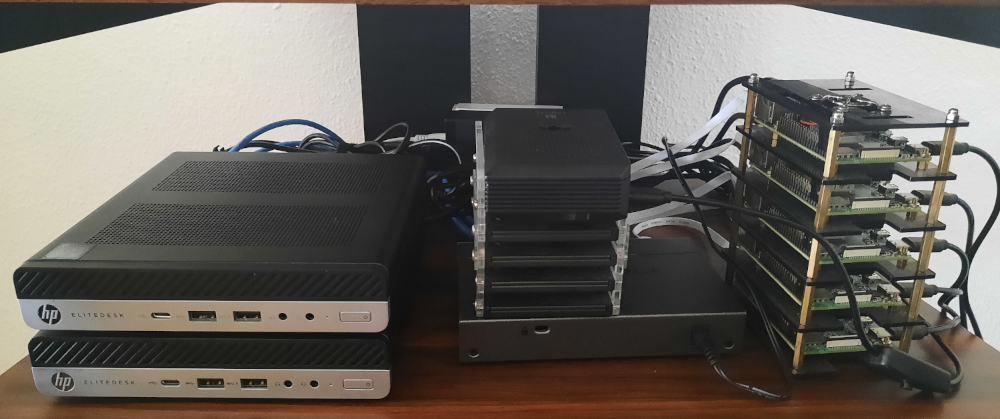
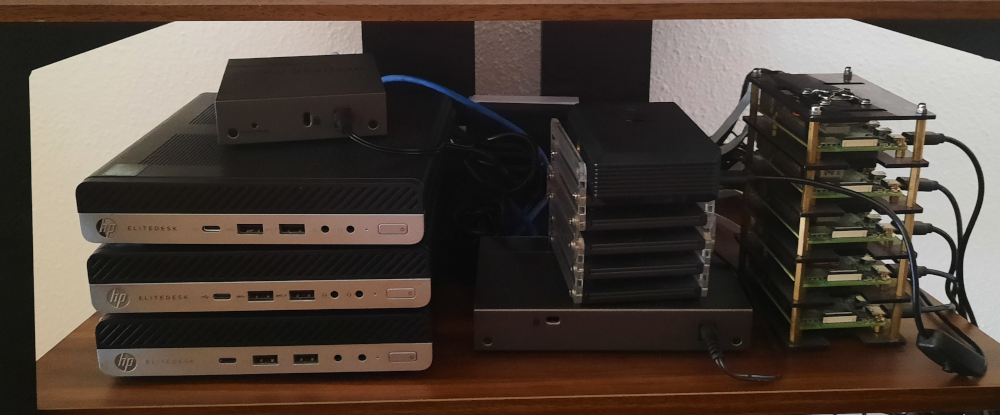
Updating architecture doc and pictures

diff --git a/docs/_docs/architecture.md b/docs/_docs/architecture.md
@@ -2,24 +2,24 @@
 title: Lab Architecture
 permalink: /docs/architecture/
 description: Homelab architecture of our Pi Kuberentes cluster. Cluster nodes, firewall, and Ansible control node. Networking and cluster storage design.
-last_modified_at: "18-06-2023"
+last_modified_at: "02-07-2023"
 ---
 
 
 The home lab I am building is shown in the following picture
 
-![Cluster-lab](/assets/img/RaspberryPiCluster_architecture.png)
+![Cluster-lab](/assets/img/picluster-architecture.png)
 
 
 A K3S cluster is composed of the following **cluster nodes**:
-- One master node (`node1`), running on Raspberry Pi 4B (4GB)
-- Six worker nodes:
-  - `node2`, `node3` , `node4` running on Raspberry Pi 4B (4GB)
+- 3 master nodes (`node1`, `node2` and `node3`), running on Raspberry Pi 4B (4GB)
+- 5 worker nodes:
+  - `node4` running on Raspberry Pi 4B (4GB)
   - `node5` running on Raspberry Pi 4B (8GB)
-  - `node-hp-1` and `node-hp-2` running on HP Elitedesk 800 G3 (16GB)
+  - `node-hp-1`, `node-hp-2` and `node-hp-3` running on HP Elitedesk 800 G3 (16GB)
  
 
-A **LAN switch** (8 Gigabit ports) is used to provide L2 connectivity to the cluster nodes. L3 connectivity and internet access is provided by a router/firewall (`gateway`) running on Raspberry Pi 4B (2GB). 
+ A couple of **LAN switches** (8 Gigabit ports + 5 Gigabit ports) used to provide L2 connectivity to the cluster nodes. L3 connectivity and internet access is provided by a router/firewall (`gateway`) running on Raspberry Pi 4B (2GB). 
 
 `gateway`, **cluster firewall/router**, is connected to LAN Switch using its Gigabit Ethernet port. It is also connected to my home network using its WIFI interface, so it can route and filter traffic comming in/out the cluster. With this architecture my lab network can be isolated from my home network.
 
@@ -28,6 +28,8 @@ A **LAN switch** (8 Gigabit ports) is used to provide L2 connectivity to the clu
  - DNS
  - NTP
  - DHCP
+
+A load balancer is needed for providing Hight availability to Kubernetes API. In this cases a network load balancer, [HAProxy](https://www.haproxy.org/), will be deployed in `gateway` server.
 
 For automating the OS installation of x86 nodes, a **PXE server** will be deployed in `gateway` node.
 
@@ -78,9 +80,9 @@ For building the cluster, using bare metal servers instead of virtual machines, 
 
   I have used the following hardware components
 
-    - [2 x HP EliteDesk 800 G3 i5 6500T 2,5 GHz, 8 GB de RAM, SSD de 256 GB](https://www.amazon.es/HP-EliteDesk-800-G3-reacondicionado/dp/B09TL2N2M8) as x86 cluster nodes.
+    - [3 x HP EliteDesk 800 G3 i5 6500T 2,5 GHz, 8 GB de RAM, SSD de 256 GB](https://www.amazon.es/HP-EliteDesk-800-G3-reacondicionado/dp/B09TL2N2M8) as x86 cluster nodes.
       One of the nodes `node-hp-2` has a SSD M.2 NVMe 256 GB. The other, `node-hp-1` has a SATA SSD Kingston 240 GB
-    - [2 x Crucial RAM 8GB DDR4 2400MHz CL17 Memoria](https://www.amazon.es/dp/B01BIWKP58) as RAM expansion for mini PCs. Total memmory 16 GB 
+    - [3 x Crucial RAM 8GB DDR4 2400MHz CL17 Memoria](https://www.amazon.es/dp/B01BIWKP58) as RAM expansion for mini PCs. Total memmory 16 GB 
 
 {{site.data.alerts.note}}
 
@@ -95,17 +97,21 @@ The overall price of a mini PC, intel i5 + 8 GB RAM + 256 GB SSD disk + power su
 
 ### Networking
 
-A 8 GE ports LAN switch, [NetGear GS108S](https://www.netgear.com/business/wired/switches/plus/gs108e/), supporting VLAN configuration and remote management, is used to provide connectivity to all cluster nodes (Raspberry Pis and x86 mini PCs). 
+A 8 GE ports LAN switch, [NetGear GS108S](https://www.netgear.com/business/wired/switches/plus/gs108e/), and 5 GE ports LAN switch, [NetGear GS105E](https://www.netgear.es/support/product/gs105e), supporting VLAN configuration and remote management, are used to provide connectivity to all cluster nodes (Raspberry Pis and x86 mini PCs).
 
 All nodes are connected to the switch with Cat6 eth cables, using their Gigabit Ethernet port.
 
 ![netgear-gs108s](/assets/img/netgear-gs108e.jpg)
 
 
+![netgear-gs105e](/assets/img/netgear-gs105E.png)
+
 For networking, I have used the following hardware components:
 
-- [1 x Negear GS108-300PES](https://www.amazon.es/Netgear-GS108E-300PES-conmutador-gestionable-met%C3%A1lica/dp/B00MYYTP3S). 8 ports GE ethernet manageable switch (QoS and VLAN support)
-- [8 x Ethernet Cable](https://www.aliexpress.com/item/32821735352.html). Flat Cat 6,  15 cm length
+- [1 x Netgear GS108-300PES](https://www.amazon.es/Netgear-GS108E-300PES-conmutador-gestionable-met%C3%A1lica/dp/B00MYYTP3S). 8 ports GE ethernet managed switch (QoS and VLAN support)
+
+- [1 x Netgear GS105E](https://www.amazon.es/Netgear-GS105E-200PES-gestionable-puertos-Gigabit/dp/B00GWKN1Q2), 5 ports GE ehternet managed switch
+- [10 x Ethernet Cable](https://www.aliexpress.com/item/32821735352.html). Flat Cat 6,  15 cm length
 
 ## Raspberry PI Storage
 

diff --git a/docs/_docs/node.md b/docs/_docs/node.md
@@ -6,11 +6,11 @@ last_modified_at: "24-06-2023"
 ---
 
 A K3S cluster is composed of:
-- One **master node** (`node1`), running on Raspberry Pi 4B (4GB)
-- Six **worker nodes**:
-  - `node2`, `node3` , `node4` running on Raspberry Pi 4B (4GB)
+- 2 **master nodes** (`node1`, `node2`, `node3`), running on Raspberry Pi 4B (4GB)
+- 5 **worker nodes**:
+  - `node4` running on Raspberry Pi 4B (4GB)
   - `node5` running on Raspberry Pi 4B (8GB)
-  - `node-hp-1` and `node-hp-2` running on HP Elitedesk 800 G3 (16GB)
+  - `node-hp-1`,`node-hp-2` and `node-hp-3` running on HP Elitedesk 800 G3 (16GB)
 
 
 ## Raspberry PI nodes
@@ -113,7 +113,7 @@ Then cloud-init executes the commands (cloud-init's runcmd section) to format (`
 
 ### Storage Configuration
 
-`hp-node1-2` are based on HP EliteDesk 800 G3 mini PCs. This model, is able to have two types of integrated disk:
+`hp-node1-3` are based on HP EliteDesk 800 G3 mini PCs. This model, is able to have two types of integrated disk:
 
 - 2.5 SSD SATA disk
 - NvME disk via M2.PCIe interface
@@ -129,7 +129,7 @@ For nodes having only SATA disk (hp-node-1)
 | /dev/sda3 | LVM Volume Group: ubuntu-vg| | Rest of space available |
 {: .table .table-white .border-dark }
 
-For nodes having NvME disks (hp-node-2)
+For nodes having NvME disks (hp-node-2 and hp-node-3)
 
 | Partition | Description  | Mount Point | Format | Size |
 |---| --- | --- | --- | --- |
